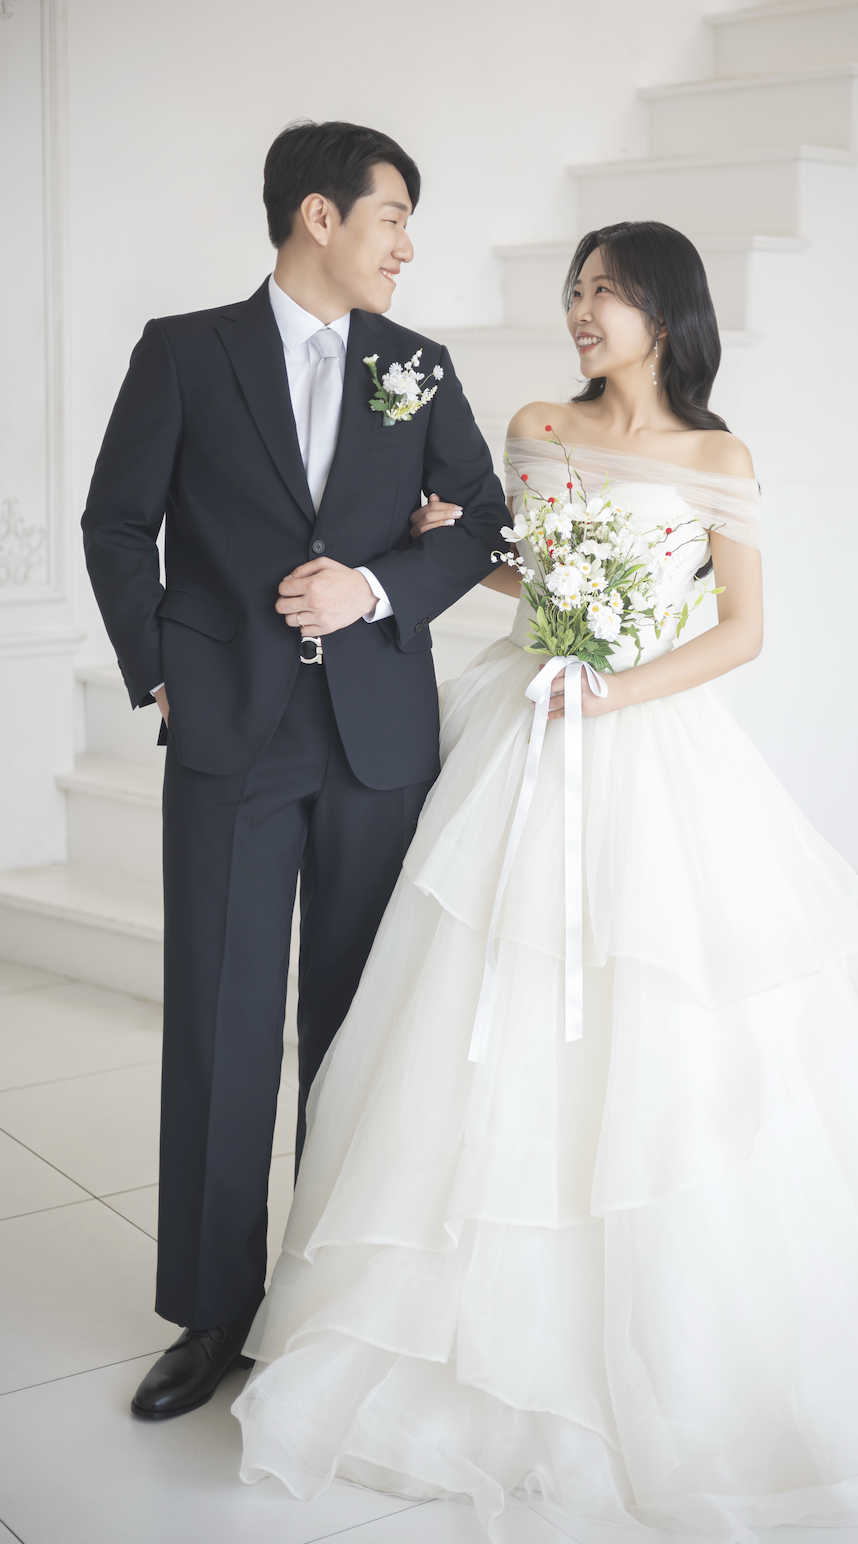
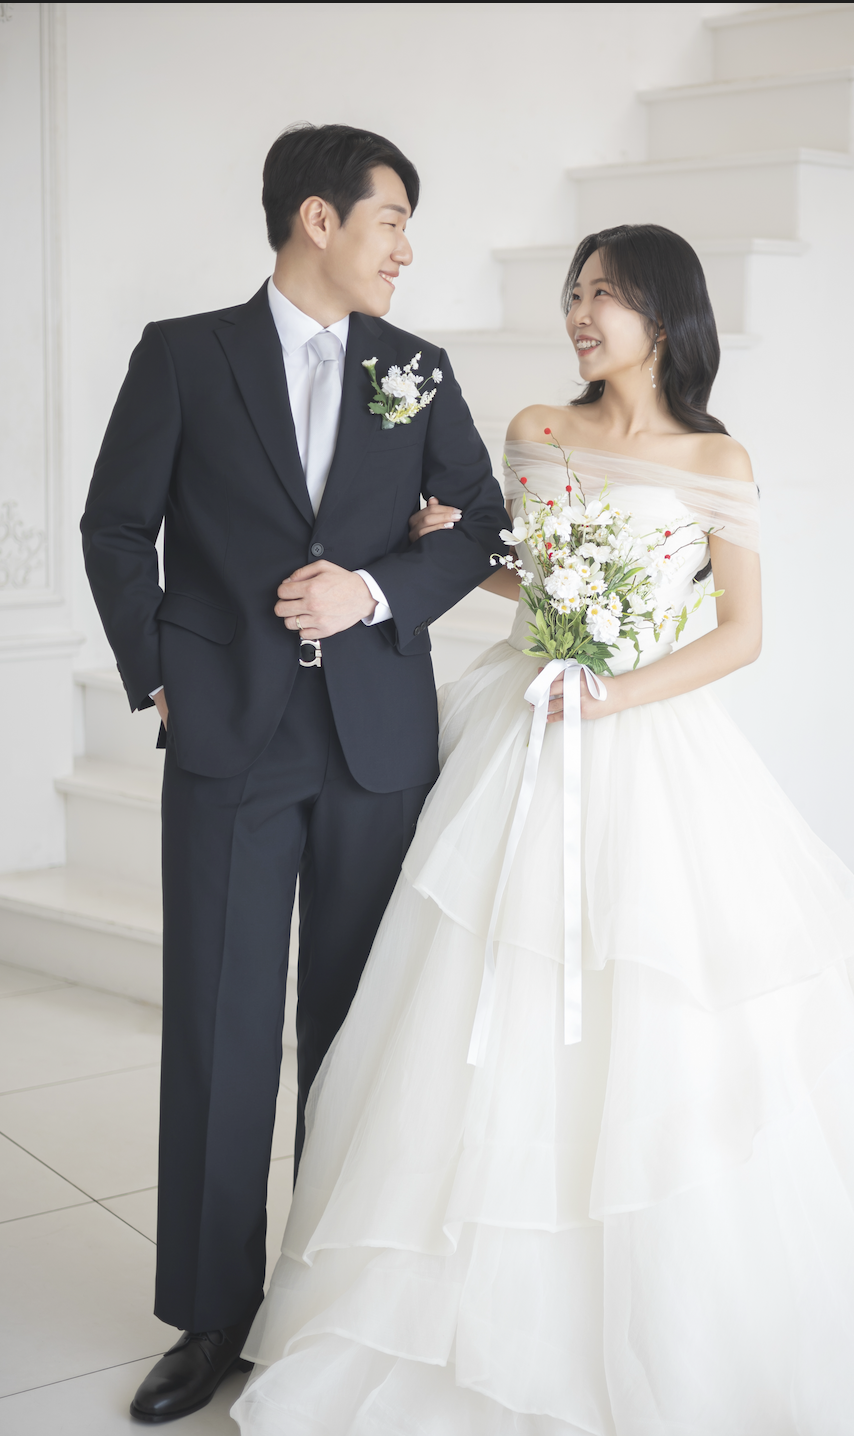
Updates

diff --git a/index.html b/index.html
@@ -26,7 +26,7 @@
     <meta property="og:image" content="https://wedding1017.com/images/share-thumbnail.png" />
 
     <title>광필 ♥ 은정 결혼 합니다</title>
-    <script type="module" crossorigin src="/assets/index-Ba9BNcK4.js"></script>
+    <script type="module" crossorigin src="/assets/index-Ckk90dj9.js"></script>
     <link rel="stylesheet" crossorigin href="/assets/index-Dsx-vWE3.css">
   </head>
   <body>